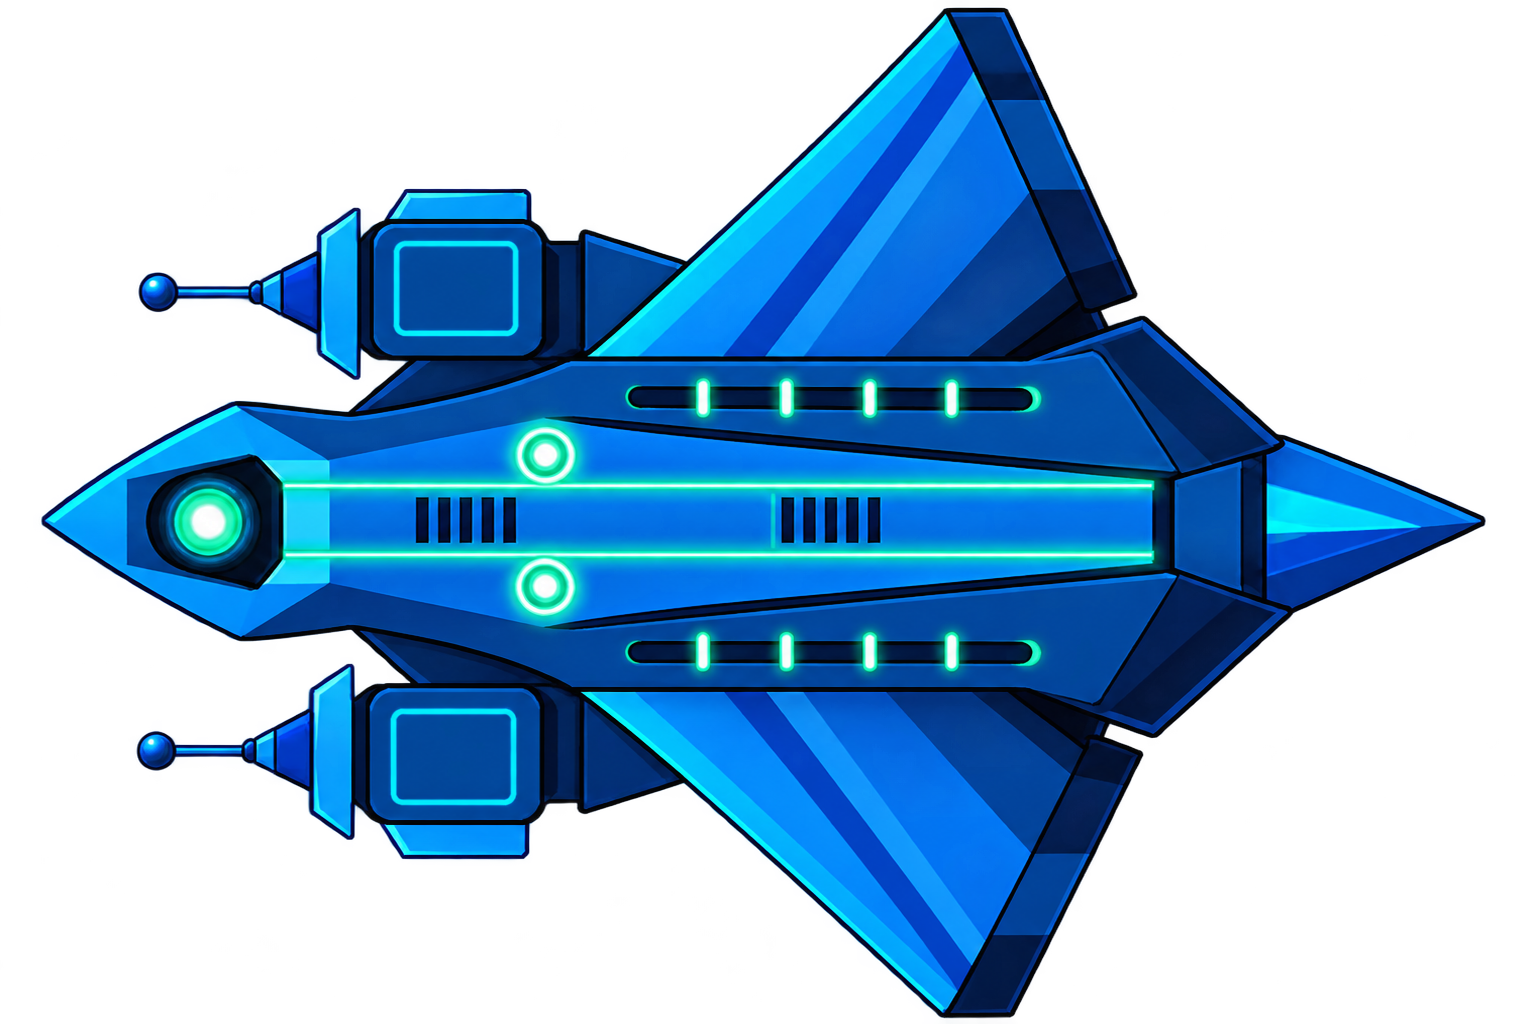
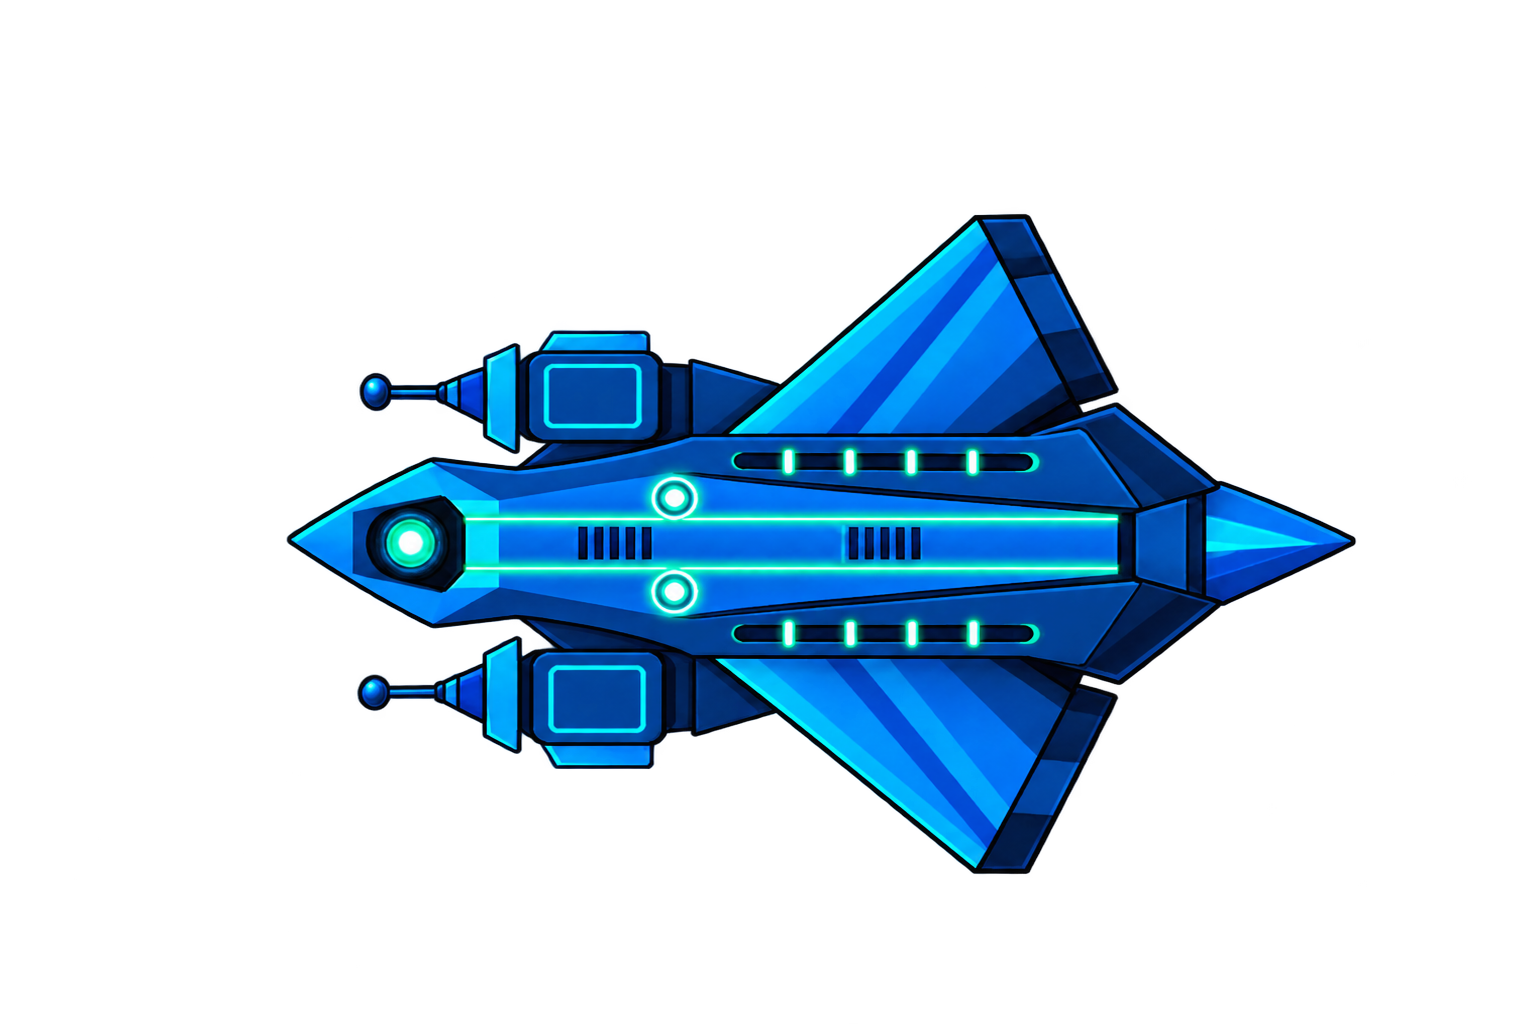
Add files via upload

diff --git a/Estilos.css b/Estilos.css
@@ -18,19 +18,6 @@ html body {
 }
 
 
-body {
-    filter: hue-rotate(18deg) contrast(1.1);
-}
-
-
-button:hover, 
-.btn-juego:hover, 
-.menu-item:hover, 
-.clickable:hover {
-    filter: drop-shadow(0 0 12px #00ffff) drop-shadow(0 0 20px #ff00de);
-    transition: all 0.2s ease-in-out;
-    transform: scale(1.05);
-}
 /* =========================================================
    CONTENEDOR GENERAL
    ========================================================= */
@@ -49,7 +36,6 @@ button:hover,
    SOLO SE MODIFICA ESTA SECCION
    =========================================================
    ========================================================= */
-
 .Seccion_01 {
     width: 100%;
     height: 100vh;
@@ -65,7 +51,12 @@ button:hover,
     align-items: center;
     justify-content: center;
 
-    background: #05030a;
+    /* REEMPLAZA O AÑADE ESTO */
+    background-image: url('IMG/Fondo_de_ la_primera_seccion.jpeg');
+    background-size: cover;
+    background-position: center;
+    background-repeat: no-repeat;
+
     color: white;
 }
 
@@ -1069,7 +1060,7 @@ z-index: 2147483647;
         2s
         ease-in-out
         infinite
-        alternate;
+ss        alternate;
     
 
 }
@@ -2715,7 +2706,7 @@ font-family: 'Press Start 2P', cursive;
 .Contenedor {
     width: 900px;
     height: 500px;
-    border: 5px dashed purple;
+    border: 5px solid rgb(3, 8, 255);
     background: url(IMG/Fondo.jpg) no-repeat 50% 50%;
     background-size: cover;
     position: relative;
@@ -2730,7 +2721,7 @@ font-family: 'Press Start 2P', cursive;
 
 .Cabezera {
     height: 70px;
-    border: 5px dashed purple;
+    border: 5px solid rgb(0, 38, 255);
     background: rgb(195, 254, 3);
     border-bottom: none;
     display: flex;
@@ -3195,20 +3186,6 @@ font-family: 'Press Start 2P', cursive;
     }
 }
 
-/* EFECTO SCANLINES DE MONITORES ANTIGUOS */
-body::after {
-    content: " ";
-    display: block;
-    position: fixed;
-    top: 0; left: 0; bottom: 0; right: 0;
-    background: linear-gradient(rgba(18, 16, 16, 0) 50%, rgba(0, 0, 0, 0.25) 50%), 
-                linear-gradient(90deg, rgba(255, 0, 0, 0.03), rgba(0, 255, 0, 0.01), rgba(0, 0, 255, 0.03));
-    z-index: 10000;
-    background-size: 100% 4px, 6px 100%;
-    pointer-events: none; /* Permite hacer clic en los botones debajo */
-}
-
-
 
 /* =========================================================
    NIVEL 2
@@ -3217,7 +3194,7 @@ body::after {
 .Contenedorlvl2 {
     width: 900px;
     height: 500px;
-    border: 5px dashed rgb(46, 86, 218);
+    border: 5px solid rgb(46, 86, 218);
     background: url(IMG/Fondo.jpg) no-repeat 50% 50%;
     background-size: cover;
     position: relative;
@@ -3478,7 +3455,7 @@ body::after {
 
 .Cabezeralvl2 {
     height: 70px;
-    border: 5px dashed rgb(0, 119, 255);
+    border: 5px solid rgb(0, 119, 255);
     background: rgb(136, 255, 0);
     border-bottom: none;
     display: flex;
@@ -3606,12 +3583,15 @@ body::after {
 .Contenedorlvl3 {
     width: 900px;
     height: 500px;
-    border: 5px dashed red;
+    border: 5px  red;
     background: url(IMG/Fondo.jpg) no-repeat 50% 50%;
     background-size: cover;
     position: relative;
     top: 4%;
     overflow: hidden;
+}
+.Cabezera {
+    
 }
 
 
@@ -3780,7 +3760,7 @@ body::after {
 
 .Cabezeralvl3 {
     height: 70px;
-    border: 5px dashed red;
+    border: 5px solid rgb(0, 72, 255)(0, 55, 255);
     background: rgb(162, 255, 0);
     border-bottom: none;
     display: flex;

diff --git a/index.html b/index.html
@@ -70,6 +70,10 @@
     </label>
 </div>
 <!-- =========================================================
+     FONDO DE LA PRIMERA SECCION
+     ========================================================= -->
+<section class="fondo de la primera seccion"></section>
+<!-- =========================================================
      CONTENEDOR GENERAL
      ========================================================= -->
 
